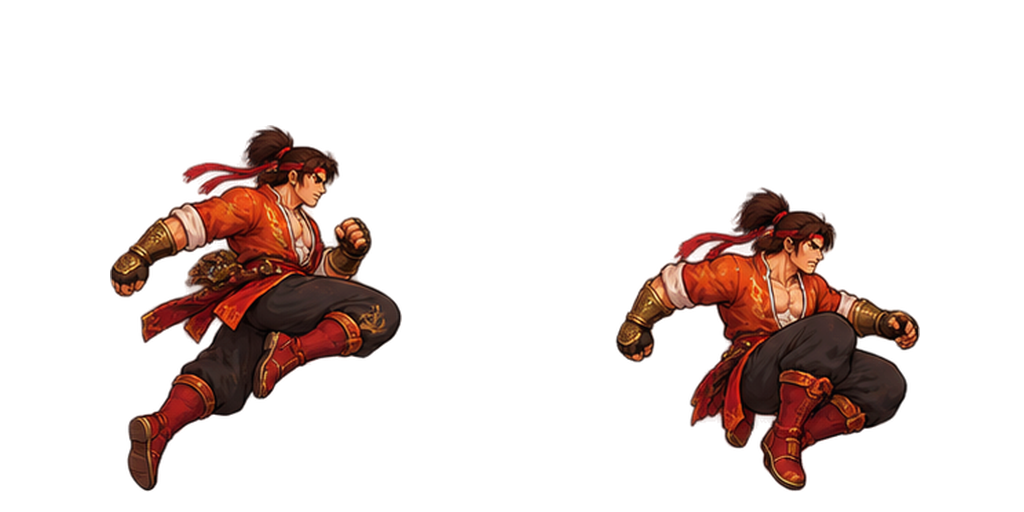
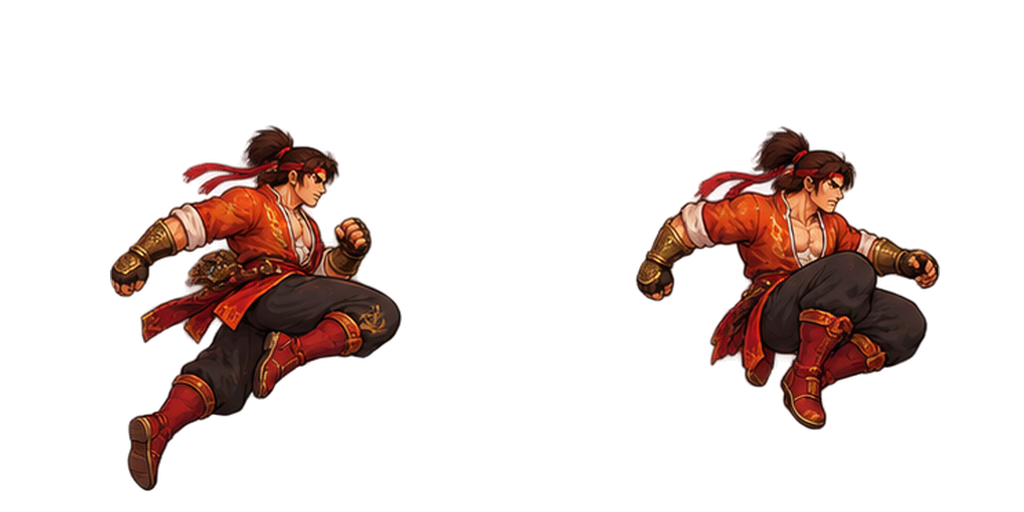
commit

Changed region(s): [[0.5938, 0.25, 0.9375, 0.9688]]

diff --git a/src/capsule-preview.ts b/src/capsule-preview.ts
@@ -57,6 +57,12 @@ if(!localStorage.getItem(anJumpAlignKey)){
  edits['an/jump/1']=structuredClone((sourceEdits as CapsuleEdits)['an/jump/1']);
  draftRun();localStorage.setItem(anJumpAlignKey,'done');
 }
+const fightersJumpAlignKey=storageKey+'-ronin-ember-jump-aligned-v1';
+if(!localStorage.getItem(fightersJumpAlignKey)){
+ localStorage.setItem(fightersJumpAlignKey+'-backup',localStorage.getItem(storageKey)??'{}');
+ for(const who of ['moon','ember'])edits[`${who}/jump/1`]=structuredClone((sourceEdits as CapsuleEdits)[`${who}/jump/1`]);
+ draftRun();localStorage.setItem(fightersJumpAlignKey,'done');
+}
 const authoredFrame=()=>Number(frame.value)-1;
 const selectedKey=()=>`${who.value}/${action.value}/${authoredFrame()}`;
 let selected=0;
